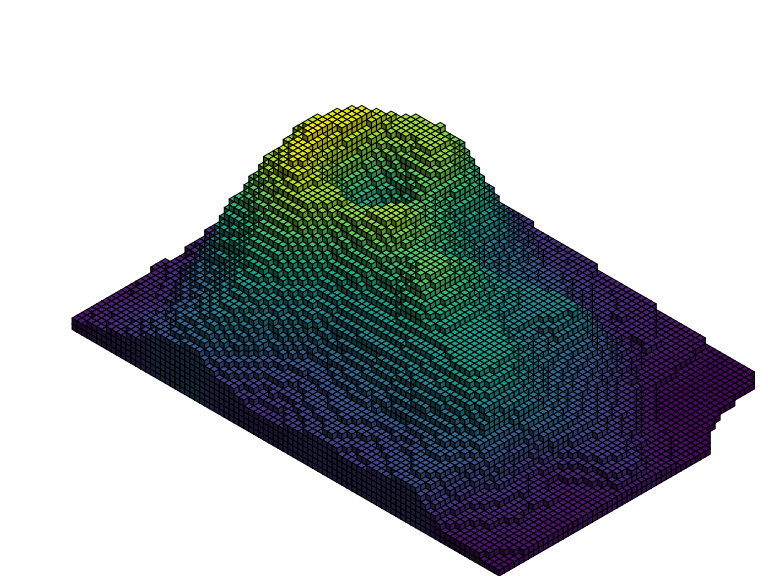
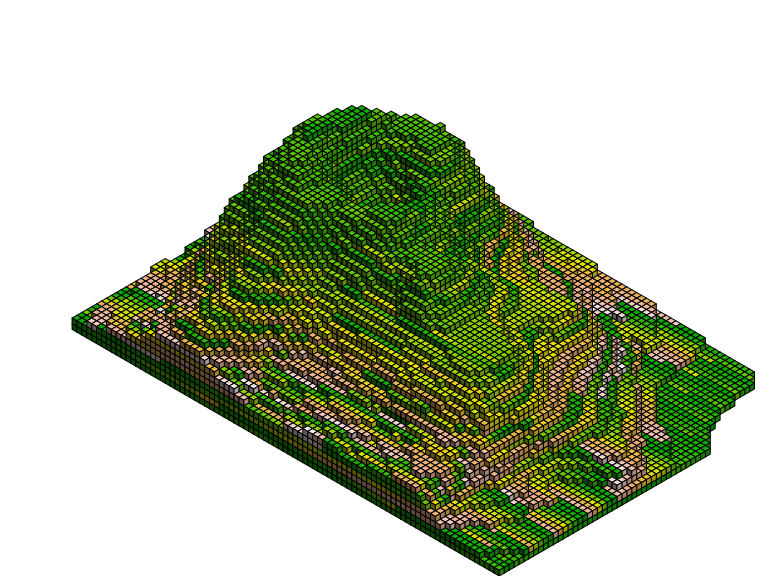
heightmap now sets a 'fill' column (rather than 'col')

Changed region(s): [[0.0938, 0.1875, 1.0, 1.0]]

diff --git a/README.md b/README.md
@@ -199,19 +199,18 @@ mat <- volcano
 #~~~~~~~~~~~~~~~~~~~~~~~~~~~~~~~~~~~~~~~~~~~~~~~~~~~~~~~~~~~~~~~~~~~~~~~~~~~~~
 val <- as.vector(mat)
 val <- round(255 * (val - min(val)) / diff(range(val)))
-col <- viridisLite::viridis(256)[val + 1L]
-dim(col) <- dim(mat) 
+fill <- terrain.colors(256)[val + 1L]
+dim(fill) <- dim(mat) 
 
 #~~~~~~~~~~~~~~~~~~~~~~~~~~~~~~~~~~~~~~~~~~~~~~~~~~~~~~~~~~~~~~~~~~~~~~~~~~~~~
 # Find the (integer) coordiinates of the cubes in the heightmap
 #~~~~~~~~~~~~~~~~~~~~~~~~~~~~~~~~~~~~~~~~~~~~~~~~~~~~~~~~~~~~~~~~~~~~~~~~~~~~~
-coords <- coords_heightmap(mat - min(mat), col = col, scale = 0.3)
+coords <- coords_heightmap(mat - min(mat), fill = fill, scale = 0.3)
 
 #~~~~~~~~~~~~~~~~~~~~~~~~~~~~~~~~~~~~~~~~~~~~~~~~~~~~~~~~~~~~~~~~~~~~~~~~~~~~~
 # Convert the coordinates into a grob
 #~~~~~~~~~~~~~~~~~~~~~~~~~~~~~~~~~~~~~~~~~~~~~~~~~~~~~~~~~~~~~~~~~~~~~~~~~~~~~
-cubes  <- isocubesGrob(coords, size = grid::unit(1.5, 'mm'), fill = coords$col, 
-                       x = 0.65, y = 0)
+cubes  <- isocubesGrob(coords, size = 1.5, x = 0.65, y = 0)
 grid.newpage(); grid.draw(cubes)
 ```
 
@@ -232,15 +231,14 @@ ht[,1]    <- 0 # image editing to remove some artefacts
 #~~~~~~~~~~~~~~~~~~~~~~~~~~~~~~~~~~~~~~~~~~~~~~~~~~~~~~~~~~~~~~~~~~~~~~~~~~~~~
 # A matrix of colours extracted from the image
 #~~~~~~~~~~~~~~~~~~~~~~~~~~~~~~~~~~~~~~~~~~~~~~~~~~~~~~~~~~~~~~~~~~~~~~~~~~~~~
-col       <- rgb(img[,,1], img[,,2], img[,,3])
-dim(col)  <- dim(ht) 
+fill       <- rgb(img[,,1], img[,,2], img[,,3])
+dim(fill)  <- dim(ht) 
 
 #~~~~~~~~~~~~~~~~~~~~~~~~~~~~~~~~~~~~~~~~~~~~~~~~~~~~~~~~~~~~~~~~~~~~~~~~~~~~~
 # convert to cubes and draw
 #~~~~~~~~~~~~~~~~~~~~~~~~~~~~~~~~~~~~~~~~~~~~~~~~~~~~~~~~~~~~~~~~~~~~~~~~~~~~~
-coords <- coords_heightmap(ht, col = col, ground = 'xy')
-cubes  <- isocubesGrob(coords, size = grid::unit(1.3, 'mm'), fill = coords$col, 
-                       x = 0.1, y = 0, col = NA, light = 'right-top')
+coords <- coords_heightmap(ht, fill = fill, ground = 'xy')
+cubes  <- isocubesGrob(coords, size = 1.3, x = 0, y = 0, col = NA)
 grid.newpage(); grid.draw(cubes)
 ```
 
